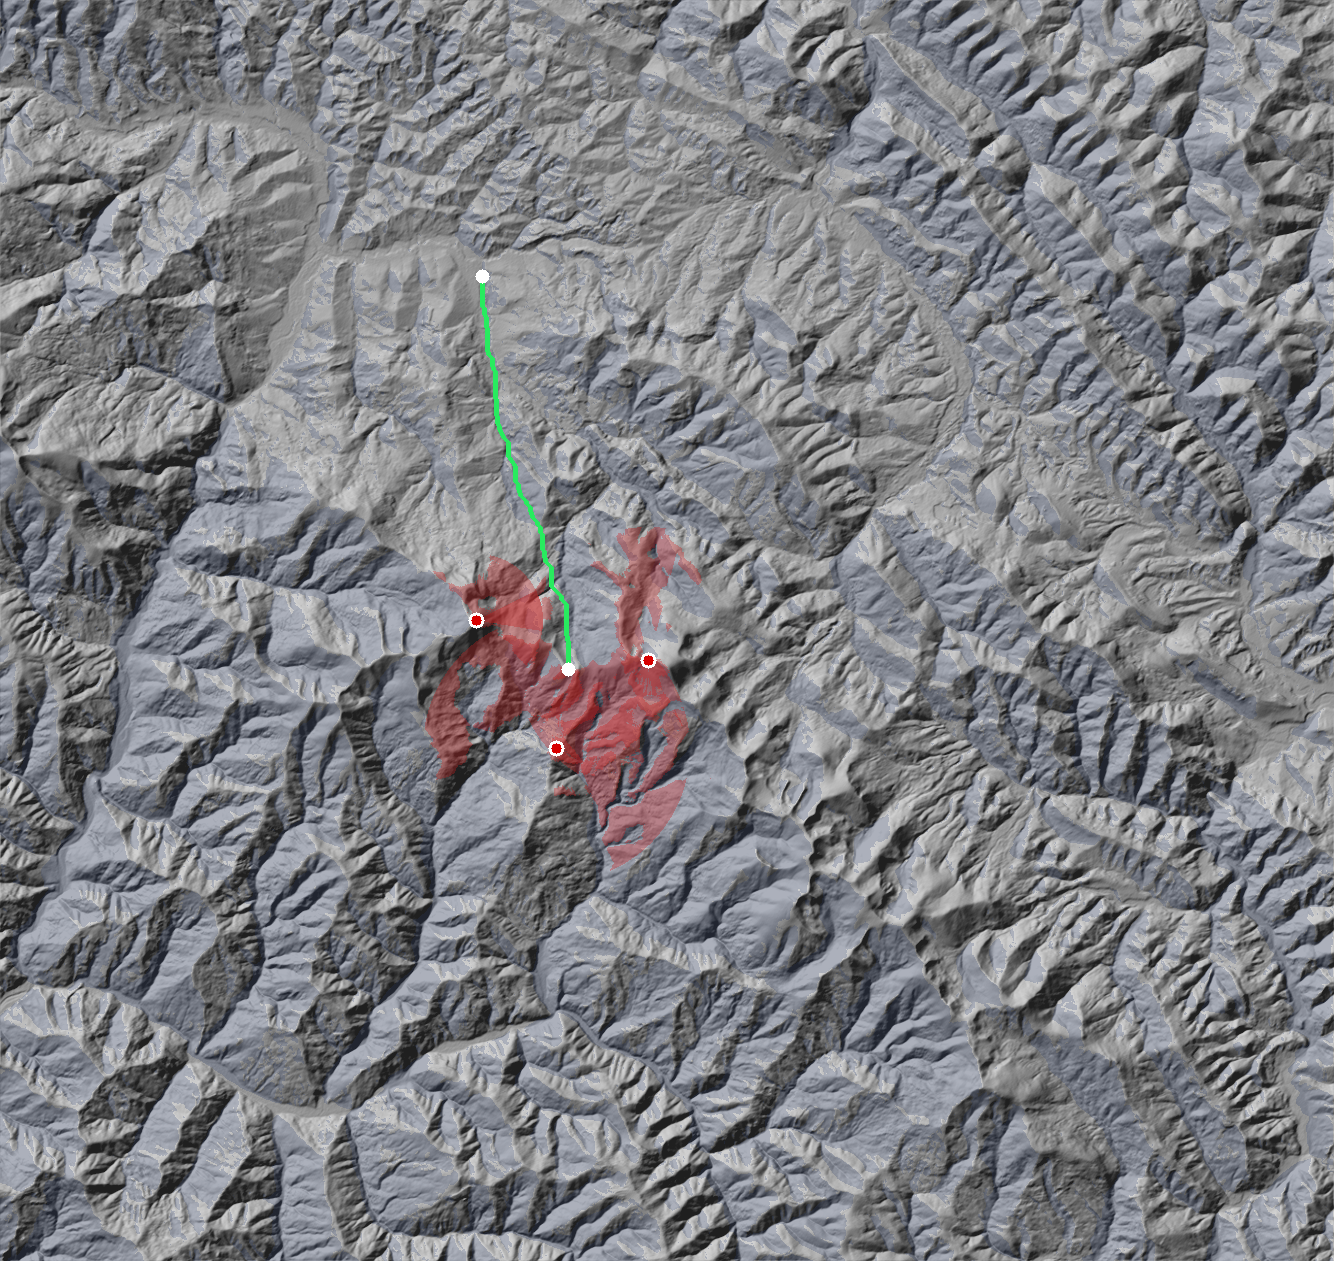
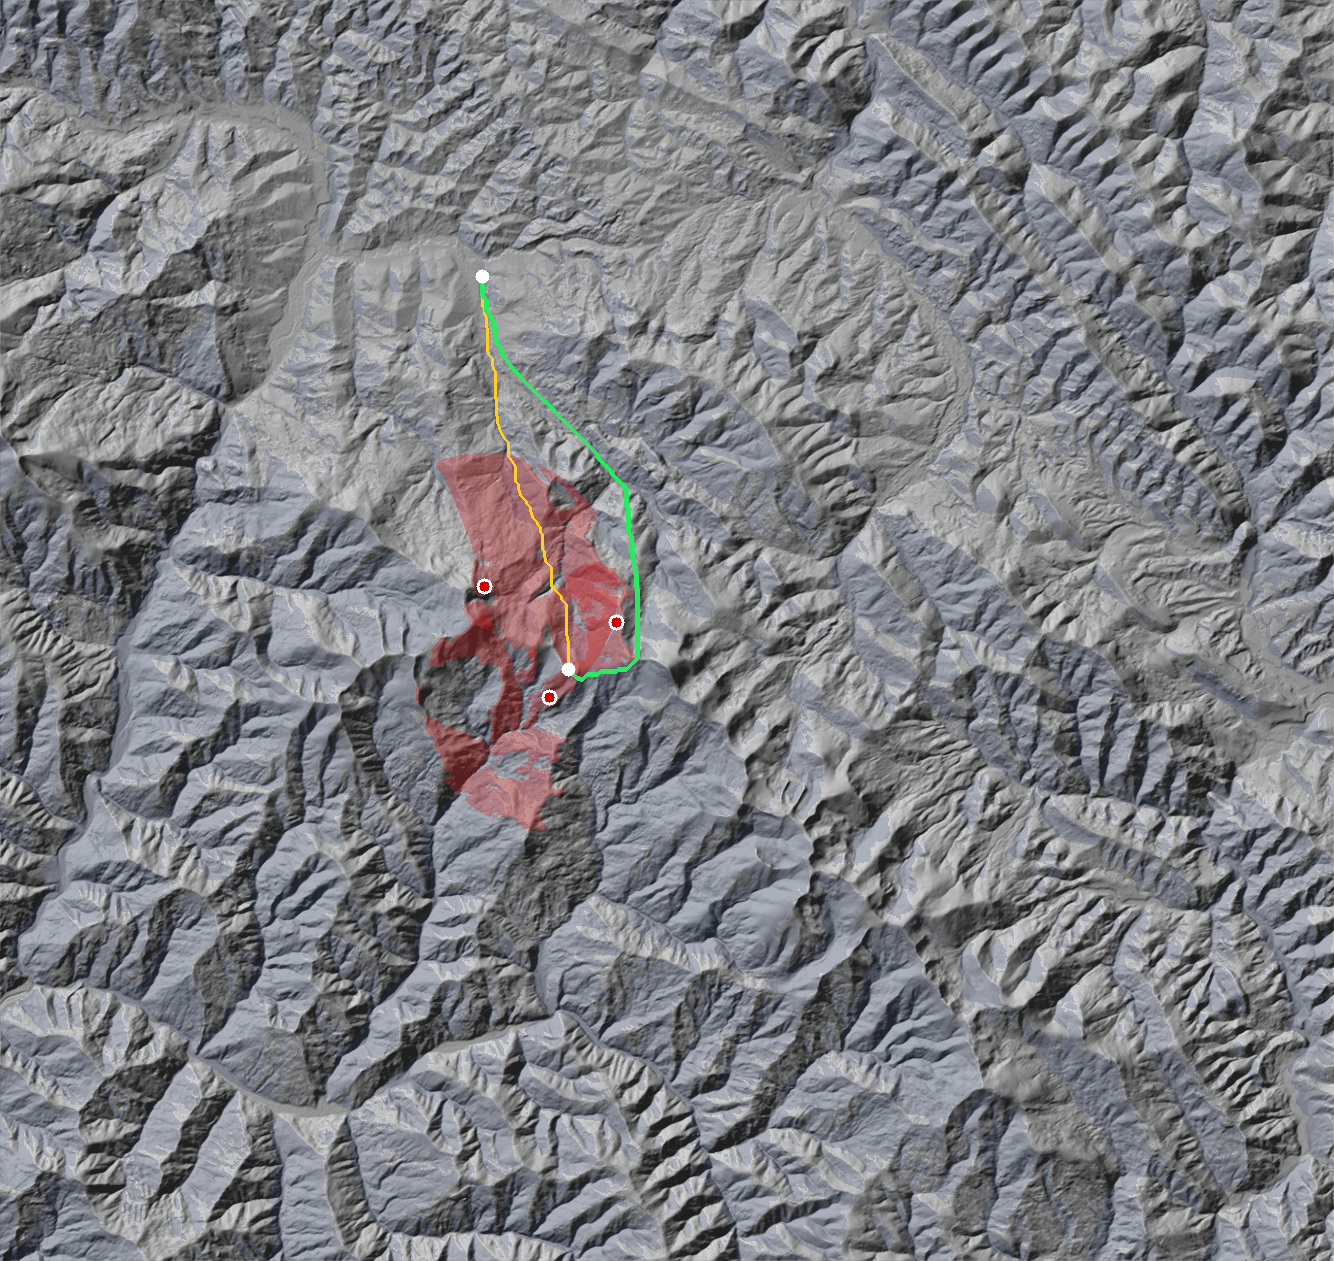
One recommended route, chosen by rule, and fix the corridor test scenario
Replaces the four-way option table with a single recommendation. Sweep BOTH
the platform and the exposure weight, and keep the combination with the least
time in view that the platform can still fly. Concealment is the point;
endurance decides whether a plan is real.

Sweeping the platform mattered more than expected. The low-cruise quadcopter
cannot afford ANY concealment detour here - every weight above zero breaks
its endurance - while the cargo quadcopter takes a 25% detour and cuts time
in view by 94%, from 501 s to 29 s. Fixing the platform first hid that.

Deliberately not sun-weighted. Sun awareness changes the path only while the
sun is low and buys about one second of effective exposure here, and it
degrades eyes and cameras only, so every claim needs a caveat about radar and
thermal. A route that holds at any hour is worth more. The sun is still
reported alongside.

Threats repositioned a third time, to ground that ACTUALLY overwatches the
corridor - chosen by computing how much of the route each can see at 15 m
AGL rather than by taking the highest peak. Earlier revisions used distant
summits that only mattered because ranges were invented, then correct ranges
at a distance where terrain blocked them and the route saw 2-6 s.

verifyCorridor fixed properly: it was running on BARE TERRAIN while the demo
runs over the obstacle surface, so it measured a different tool - far less
exposure, no gradient between balanced and safest, nothing for the sun to
[…]

Changed region(s): [[0.3073, 0.2784, 0.5225, 0.6804], [0.3381, 0.2474, 0.3688, 0.2784]]

diff --git a/scripts/verifyCorridor.js b/scripts/verifyCorridor.js
@@ -5,6 +5,9 @@ import fs from "node:fs";
 import { loadDemSync } from "../src/demNode.js";
 import { computeCeiling, exposureCount } from "../src/viewshed.js";
 import { computeShadow } from "../src/shadow.js";
+import { loadObstacleHeightsSync } from "../src/obstaclesNode.js";
+import { buildSurface } from "../src/obstacles.js";
+import { computeGradedGlare, weightedExposure } from "../src/glare.js";
 import { solarPosition } from "../src/sun.js";
 import { findPath } from "../src/pathfind.js";
 import { parseThreats } from "../src/threats.js";
@@ -19,6 +22,14 @@ function check(label, passed, detail) {
 
 const dem = loadDemSync();
 const cellCount = dem.width * dem.height;
+const slope = computeSlope(dem);
+// The demo sweeps line of sight over the SURFACE - ground plus trees and
+// buildings - and gates trafficability on the same obstacles. Testing bare
+// terrain instead measured a different tool: far less exposure, no gradient
+// between balanced and safest, and nothing for the sun to work with.
+const obstacleHeight = loadObstacleHeightsSync(dem);
+const surface = buildSurface(dem, obstacleHeight);
+
 const mission = JSON.parse(fs.readFileSync("data/threats.json", "utf8"));
 
 // The corridor controls place their OWN threats rather than using the shipped
@@ -31,13 +42,26 @@ const mission = JSON.parse(fs.readFileSync("data/threats.json", "utf8"));
 // These sit directly over the corridor with generous range, so there is
 // always real exposure to reduce.
 const threats = parseThreats([
-  { label: "overwatch A", type: "optical", lat: 48.1900, lon: 24.4450, mastHeight: 10, maxRangeKm: 12 },
-  { label: "overwatch B", type: "radar", lat: 48.2300, lon: 24.4300, mastHeight: 10, maxRangeKm: 12 },
+  // Positioned on ground that genuinely overwatches the corridor, with the
+  // sourced sensor ranges. Two earlier versions of this scenario were wrong in
+  // opposite directions and both made checks meaningless:
+  //
+  //   the shipped mission - retuning the demo turned the suite red, which is
+  //   the scenario changing rather than the router breaking
+  //   two blanket 12 km sensors - they covered everything, so the minimum-
+  //   exposure route was already found at penalty 50 and "safest beats
+  //   balanced" could never be true
+  //
+  // What a gradient test needs is threats that leave a CHOICE: enough exposure
+  // on the direct line to matter, and enough clear ground that paying for a
+  // detour buys something.
+  { label: "east ridge OP", type: "optical", lat: 48.1723, lon: 24.4793, mastHeight: 6, maxRangeKm: 2 },
+  { label: "west ridge EW", type: "ew", lat: 48.1820, lon: 24.4259, mastHeight: 18, maxRangeKm: 4 },
+  { label: "south radar", type: "radar", lat: 48.1520, lon: 24.4520, mastHeight: 12, maxRangeKm: 4 },
 ], dem);
 const ceilings = threats.map((t) =>
-  computeCeiling(dem, t, { observerHeight: t.mastHeight, maxRangeMetres: t.maxRangeMetres })
+  computeCeiling(dem, t, { observerHeight: t.mastHeight, maxRangeMetres: t.maxRangeMetres, surface: surface })
 );
-const slope = computeSlope(dem);
 const cell = (s) => {
   const c = lonLatToGrid(dem, s.lat, s.lon);
   return { x: Math.round(c.x), y: Math.round(c.y) };
@@ -51,7 +75,7 @@ console.log("\nCORRIDOR  the planned route must be a route, and a sane one");
 
 for (const id of ["ugvTracked", "quadLow"]) {
   const vehicle = VEHICLES[id];
-  const passable = computeTrafficable(dem, vehicle, slope);
+  const passable = computeTrafficable(dem, vehicle, slope, obstacleHeight);
   const exposure = exposureCount(dem, ceilings, vehicle.heightAboveGround);
   const grids = { passable, exposure, shadow, elev: dem.elev };
 
@@ -95,7 +119,7 @@ for (const id of ["ugvTracked", "quadLow"]) {
 console.log("\n  shadow discount is clamped and never inverts the cost");
 const v = VEHICLES.quadLow;
 const grids = {
-  passable: computeTrafficable(dem, v, slope),
+  passable: computeTrafficable(dem, v, slope, obstacleHeight),
   exposure: exposureCount(dem, ceilings, v.heightAboveGround),
   shadow: shadow,
   elev: dem.elev,
@@ -123,6 +147,10 @@ for (let y = 380; y < 430; y++) {
 const behaviour = [];
 for (const id of ["ugvTracked", "quadNap", "quadLow", "quadFpv"]) {
   const v = VEHICLES[id];
+  // Bare slope, not the real obstacle layer: this section isolates ONE
+  // synthetic obstacle. Carrying the real trees and buildings as well means
+  // the baseline route already detours around them and the comparison
+  // measures nothing.
   const clear = computeTrafficable(dem, v, slope);
   const withObstacle = computeTrafficable(dem, v, slope, obstacle);
   const wrap = (p) => ({ passable: p, exposure: new Uint8Array(cellCount), elev: dem.elev });
@@ -215,6 +243,68 @@ check("  ground and air do not overlap", overlap.length === 0);
 check("  ground plus air covers every platform",
   ground.length + air.length === Object.keys(VEHICLES).length,
   ground.length + " ground + " + air.length + " air of " + Object.keys(VEHICLES).length);
+
+// -------------------------------------------------------- route options
+console.log("\n  safest and reduced-visibility must behave as advertised");
+
+{
+  const v = VEHICLES.quadLow;
+  const passable = computeTrafficable(dem, v, slope, obstacleHeight);
+  const plain = exposureCount(dem, ceilings, v.heightAboveGround);
+  const grids = { passable, exposure: plain, shadow: null, elev: dem.elev };
+
+  const balanced = findPath(dem, start, goal, grids, { vehicle: v, exposurePenalty: 50 });
+  const safest = findPath(dem, start, goal, grids, { vehicle: v, exposurePenalty: 400 });
+
+  console.log("    balanced " + (balanced.metres / 1000).toFixed(1) + " km / " +
+    balanced.exposedSeconds.toFixed(0) + "s, safest " + (safest.metres / 1000).toFixed(1) +
+    " km / " + safest.exposedSeconds.toFixed(0) + "s");
+  check("  safest is less exposed than balanced",
+    safest.exposedSeconds < balanced.exposedSeconds,
+    safest.exposedSeconds.toFixed(0) + "s vs " + balanced.exposedSeconds.toFixed(0) + "s");
+  check("  and pays for it in distance", safest.metres > balanced.metres,
+    ((safest.metres / balanced.metres - 1) * 100).toFixed(0) + "% further");
+  check("  safest is still a bounded detour", safest.metres < balanced.metres * 2);
+
+  // A HIGH sun must leave the sun-aware route identical to the plain one:
+  // nothing is dazzled, nothing is shadowed, so there is nothing to exploit.
+  // A LOW sun must change it. This pair is the check that the sun input is
+  // actually wired to the router rather than merely reported alongside it.
+  function sunAwareRoute(hourUtc) {
+    const at = new Date(Date.UTC(2026, 7, 15, Math.floor(hourUtc), (hourUtc % 1) * 60));
+    const sun = solarPosition(at, 48.17, 24.5);
+    const shadow = computeShadow(dem, sun).shadow;
+    const glares = threats.map((t) => computeGradedGlare(dem, t, sun));
+    const weighted = weightedExposure(dem, ceilings, glares, v.heightAboveGround,
+      { glareDiscount: 0.5 });
+    return {
+      sun,
+      route: findPath(dem, start, goal,
+        { passable, exposure: weighted, shadow, elev: dem.elev },
+        { vehicle: v, exposurePenalty: 50, shadowDiscount: 0.35 }),
+    };
+  }
+  const same = (a, b) => a.trace.length === b.trace.length &&
+    a.trace.every((c, i) => c === b.trace[i]);
+
+  const high = sunAwareRoute(10.5);
+  const low = sunAwareRoute(16.5);
+  console.log("    sun " + high.sun.elevation.toFixed(0) + " deg -> " +
+    (same(high.route, balanced) ? "same as balanced" : "diverges") + ", sun " +
+    low.sun.elevation.toFixed(0) + " deg -> " +
+    (same(low.route, balanced) ? "same as balanced" : "diverges"));
+  check("  a high sun leaves the route unchanged", same(high.route, balanced));
+  check("  a low sun changes it", !same(low.route, balanced));
+
+  // Whatever it does to the path, it must never break the hard constraints.
+  let allPassable = true;
+  for (const index of low.route.trace) {
+    if (passable[index] === 0) allPassable = false;
+  }
+  check("  the sun-aware route stays on passable ground", allPassable);
+  check("  and stays a bounded detour", low.route.metres < balanced.metres * 2,
+    ((low.route.metres / balanced.metres - 1) * 100).toFixed(0) + "% vs balanced");
+}
 
 console.log("");
 if (failures > 0) {

diff --git a/scripts/scenario.js b/scripts/scenario.js
@@ -237,6 +237,80 @@ for (const vehicle of selection.vehicles) {
   }
 }
 
+// --------------------------------------------------------- the route
+// ONE recommended route, chosen by a rule rather than by taste.
+//
+// Sweep BOTH the platform and the exposure weight, and take the combination
+// with the least time in view that the platform can still actually fly.
+// Concealment is what the tool is for; endurance decides whether a plan is
+// real. Anything more concealed than the battery allows is not a route.
+//
+// Sweeping the platform too matters more than expected: the low-cruise
+// quadcopter cannot afford ANY concealment detour on this mission - every
+// weight above zero breaks its endurance - while the cargo quadcopter, slower
+// and heavier but with more in reserve, takes a 25% detour and cuts time in
+// view by 94%. Fixing the platform first would have hidden that entirely.
+//
+// DELIBERATELY NOT SUN-WEIGHTED, and that is a judgement call. Sun awareness
+// changes the path only while the sun is low, and here it buys about one
+// second of effective exposure. It also degrades eyes and cameras only, so
+// every claim about it needs a caveat about radar and thermal. A route that
+// holds at any hour is worth more than that second. The sun is still reported
+// below, because it costs nothing to say.
+{
+  const penalties = [0, 25, 50, 100, 200, 400, 800];
+  let best = null;
+
+  for (const v of selection.vehicles) {
+    const passable = computeTrafficable(dem, v, slope, obstacleHeight);
+    const exposure = exposureCount(dem, ceilings, v.heightAboveGround);
+    const grids = { passable, exposure, shadow: shadowResult.shadow, elev: dem.elev };
+    const direct = findPath(dem, start, goal, grids, { vehicle: v, exposurePenalty: 0 });
+    if (!direct.found) continue;
+
+    for (const penalty of penalties) {
+      const r = findPath(dem, start, goal, grids, { vehicle: v, exposurePenalty: penalty });
+      if (!r.found) continue;
+      const e = checkEndurance(r, v);
+      // Not a break: a higher weight can find a shorter route than a lower
+      // one, so an infeasible rung does not mean everything above it is too.
+      if (!e.feasible) continue;
+      if (best === null || r.exposedSeconds < best.route.exposedSeconds) {
+        best = { vehicle: v, route: r, direct: direct, endurance: e, penalty: penalty };
+      }
+    }
+  }
+
+  console.log("\n--- recommended route ---");
+  if (best === null) {
+    console.log("  no platform in this class can fly this mission. Nothing below applies.");
+  } else {
+    const cut = best.direct.exposedSeconds > 0
+      ? (1 - best.route.exposedSeconds / best.direct.exposedSeconds) * 100 : 0;
+    const detour = (best.route.metres / best.direct.metres - 1) * 100;
+    console.log("  platform        " + best.vehicle.label + " at " +
+      best.vehicle.heightAboveGround + " m AGL");
+    console.log("");
+    console.log("  fly straight    " + (best.direct.metres / 1000).toFixed(1) + " km    " +
+      best.direct.exposedSeconds.toFixed(0) + "s in view, longest unbroken " +
+      best.direct.longestExposedRun.toFixed(0) + "s");
+    console.log("  RECOMMENDED     " + (best.route.metres / 1000).toFixed(1) + " km    " +
+      best.route.exposedSeconds.toFixed(0) + "s in view, longest unbroken " +
+      best.route.longestExposedRun.toFixed(0) + "s");
+    console.log("");
+    console.log("  " + cut.toFixed(0) + "% less time in view for " + detour.toFixed(0) +
+      "% more distance, with " + (best.endurance.marginFraction * 100).toFixed(0) +
+      "% of endurance still in reserve.");
+    console.log("  Chosen by sweeping platform and exposure weight together and keeping the");
+    console.log("  least-seen route that still fits the battery.");
+    if (best.route.shadowedSeconds > 0) {
+      console.log("  For information, not routed for: " + best.route.shadowedSeconds.toFixed(0) +
+        "s of it lies in terrain shadow with the sun " + sun.elevation.toFixed(0) + " deg up.");
+      console.log("  Shadow degrades eyes and cameras only; the route holds without it.");
+    }
+  }
+}
+
 if (notes.length > 0) {
   console.log("\n--- what will not work, and why ---");
   for (const note of notes) {
